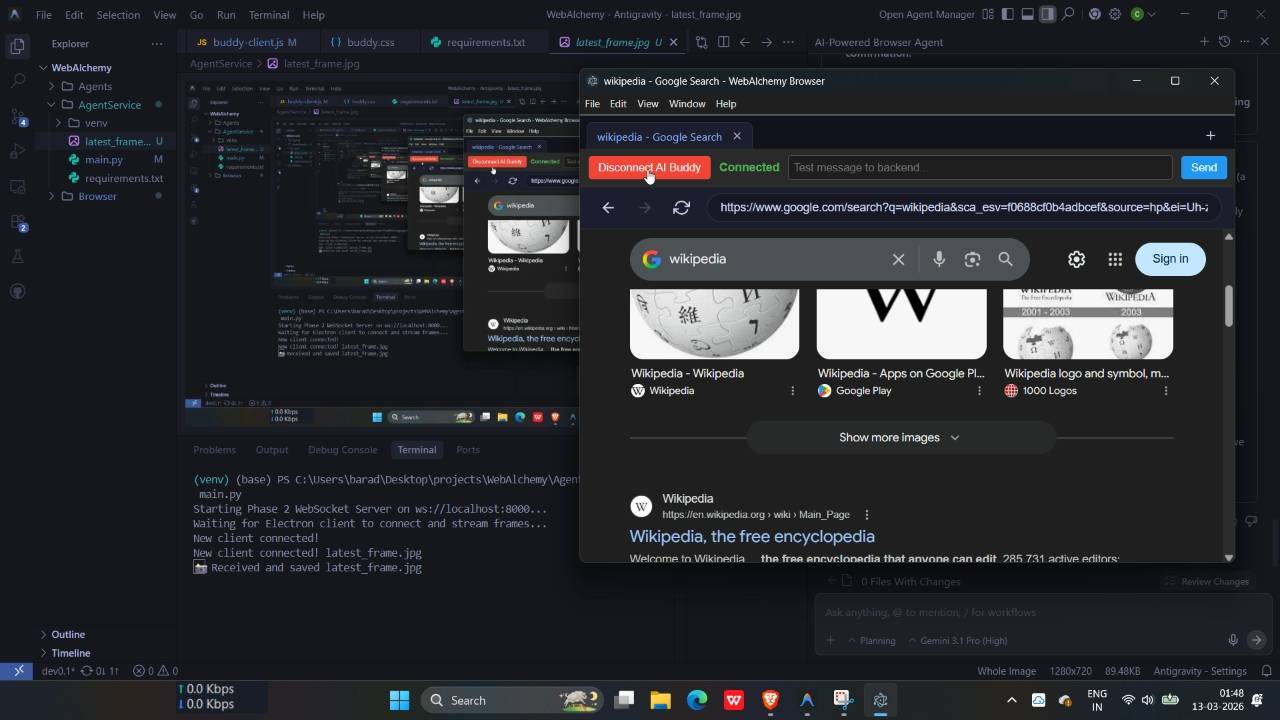
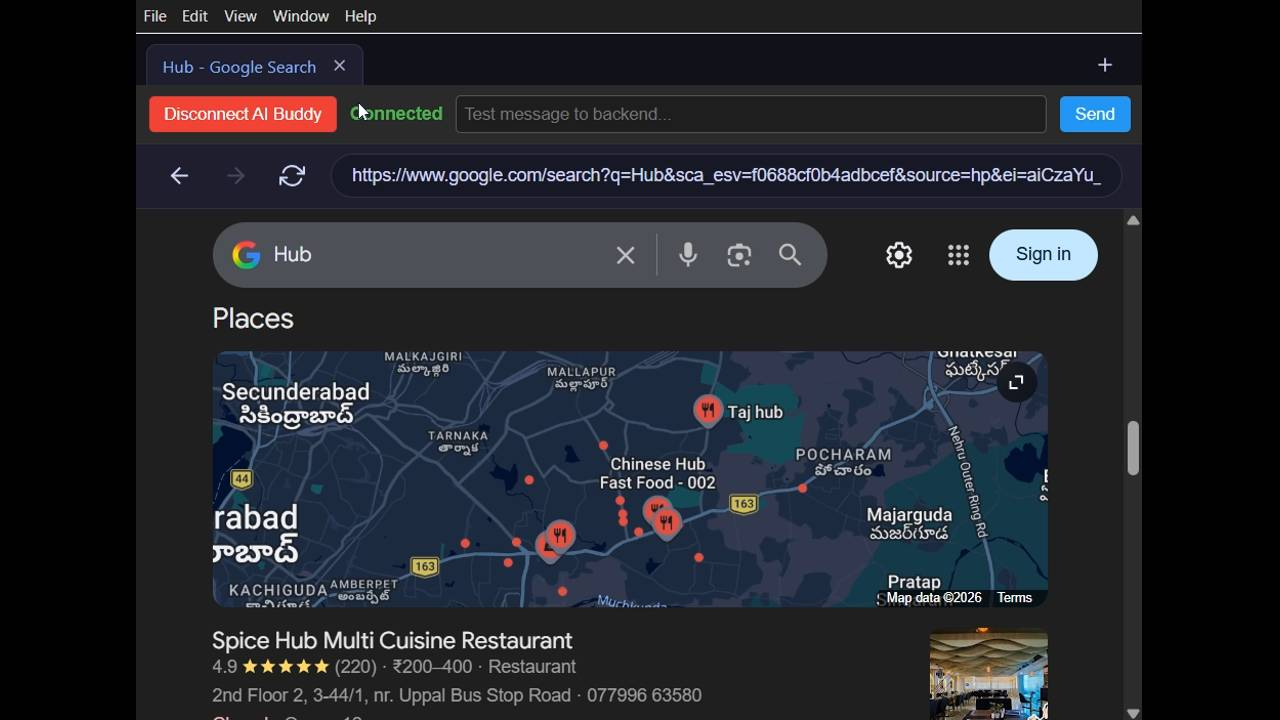
screen capture fixed

diff --git a/Browser/buddy-client.js b/Browser/buddy-client.js
@@ -88,11 +88,14 @@ async function startVideoStream() {
         const { ipcRenderer } = require('electron');
         const sources = await ipcRenderer.invoke('get-desktop-sources');
         
-        // Pick the first screen source (or entire desktop)
-        const mainScreen = sources.find(s => s.name === 'Entire screen' || s.name === 'Screen 1') || sources[0];
+        // Find the window source for our Electron App. 
+        // We look for the source name containing 'WebAlchemy Browser' (from our index.html title)
+        // If not found, fallback to the first 'window' type source.
+        const appWindow = sources.find(s => s.name.includes('WebAlchemy Browser')) 
+                       || sources.find(s => s.id.startsWith('window:'));
 
-        if (!mainScreen) {
-            console.error("Could not find a screen source to capture.");
+        if (!appWindow) {
+            console.error("Could not find the browser window source to capture.");
             return;
         }
 
@@ -101,7 +104,7 @@ async function startVideoStream() {
             video: {
                 mandatory: {
                     chromeMediaSource: 'desktop',
-                    chromeMediaSourceId: mainScreen.id,
+                    chromeMediaSourceId: appWindow.id,
                     minWidth: 1280,
                     maxWidth: 1280,
                     minHeight: 720,
